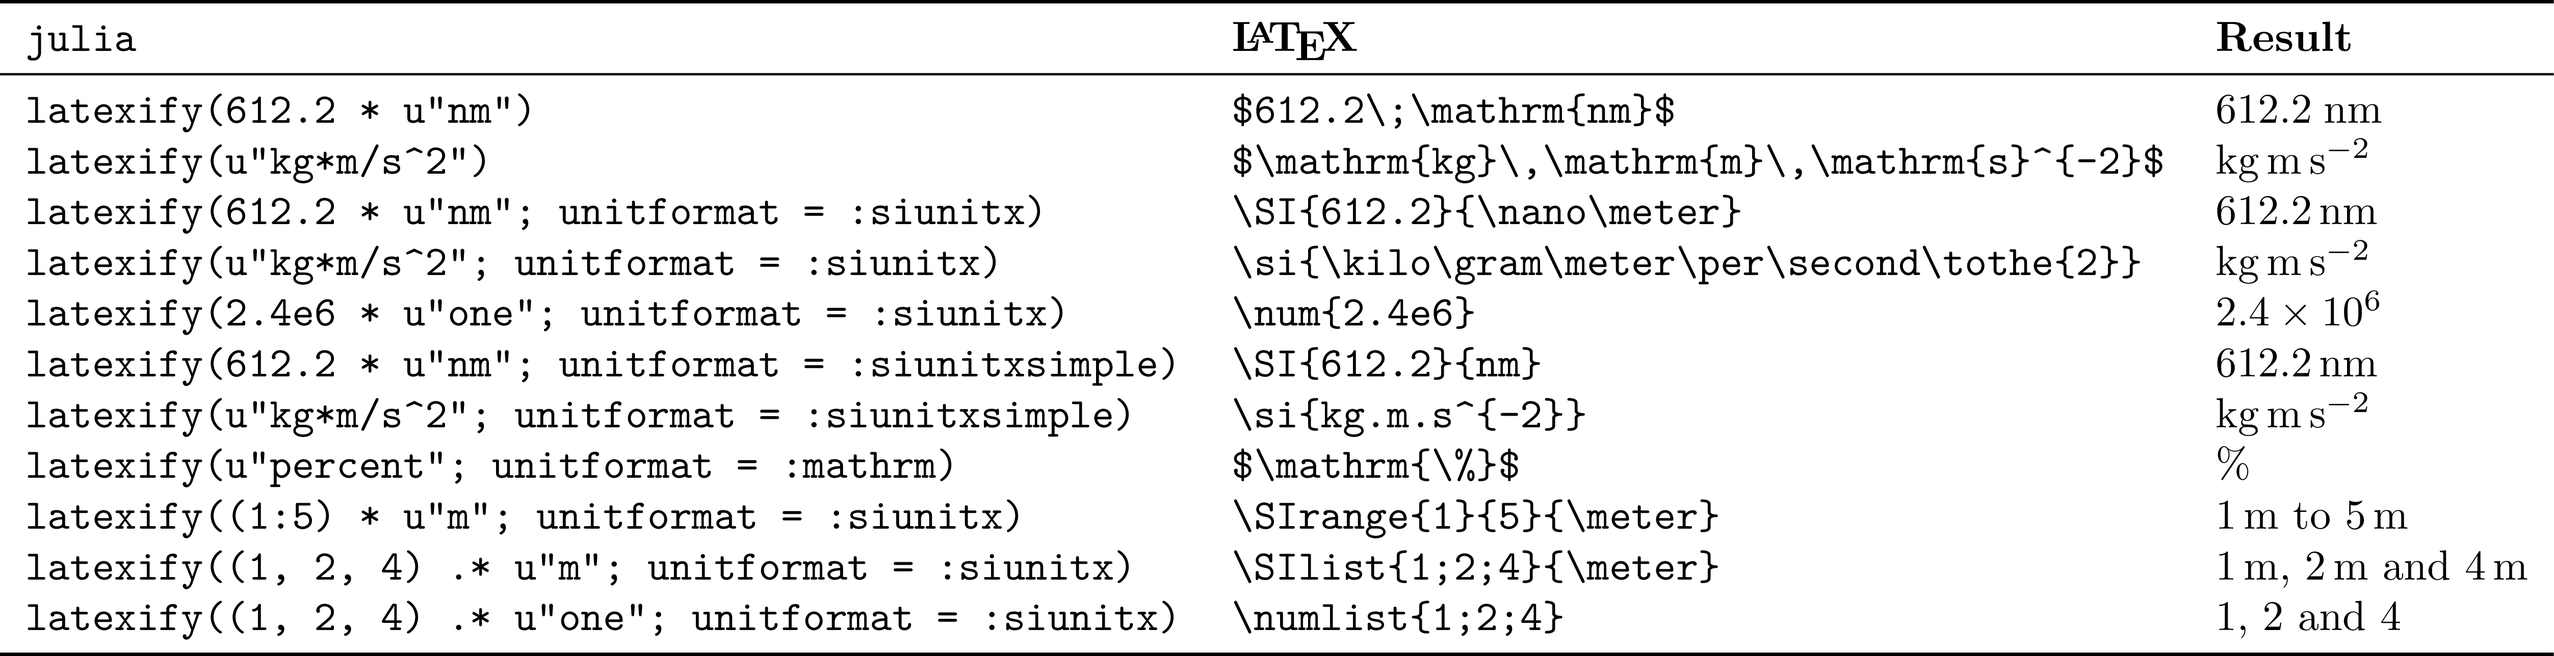
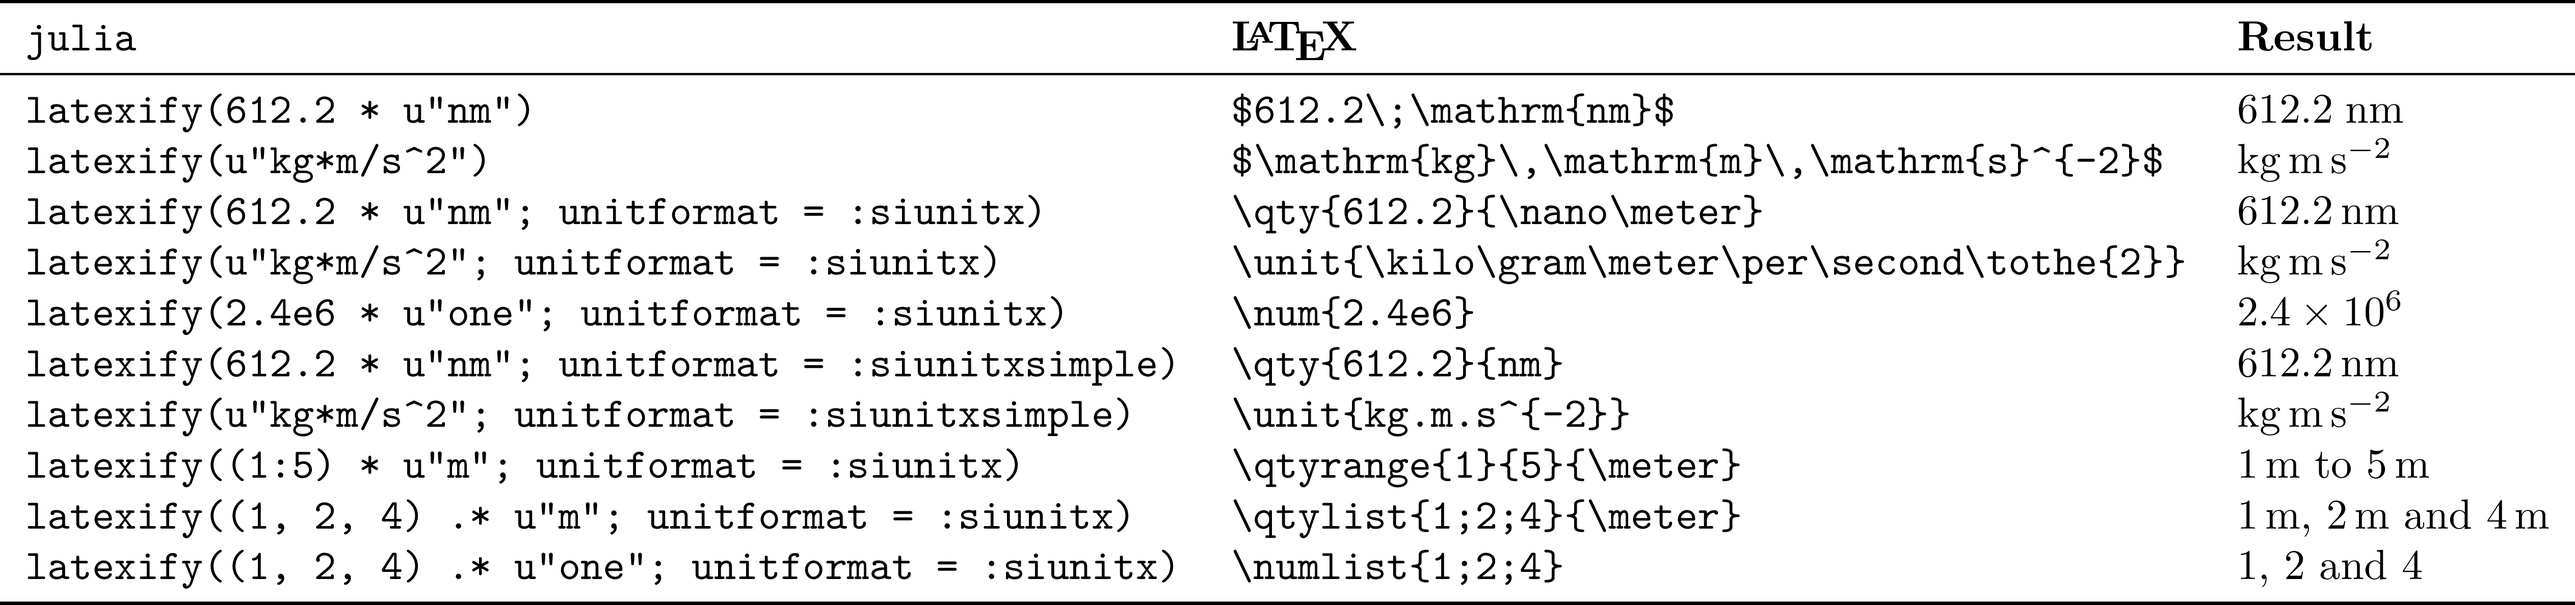
New siunitx syntax

Changed region(s): [[0.0, 0.0311, 1.0, 0.9655], [0.8719, 0.8409, 0.9964, 0.9655], [0.8719, 0.7475, 0.9653, 0.8098]]

diff --git a/docs/src/index.md b/docs/src/index.md
@@ -22,7 +22,7 @@ or more usefully:
 latexify(:(x = a*t^2 = $x))
 ```
 
-This of course also works for Units objects by themselves:
+This of course also works for `Units` objects by themselves:
 
 ```@example main
 latexify(u"kg*m")
@@ -34,6 +34,7 @@ Some more usage examples:
 
 
 ## Arrays
+
 Because Latexify is recursive, an array of unitful quantities is shown as
 expected:
 
@@ -50,12 +51,13 @@ latexify([1, 2, 3]u"cm")
 
 
 ## siunitx.sty
+
 If you are exporting your numbers to an actual LaTeX document, you will of
 course want to use the commands from `siunitx.sty` rather than the `\mathrm`
 style used by default. To this end, UnitfulLatexify introduces a keyword
 argument `unitformat` which is `:mathrm` per default, but can be set to
-`:siunitx` for `\SI{8}{\second\meter\per\kilo\gram}` style and `:siunitxsimple` for
-`\SI{8}{s.m/kg}`. Like other Latexify keywords, this can be set to be a default
+`:siunitx` for `\qty{8}{\second\meter\per\kilo\gram}` style and `:siunitxsimple` for
+`\qty{8}{s.m/kg}`. Like other Latexify keywords, this can be set to be a default
 by using `set_default(unitformat=:siunitx)`, or given with each latexification
 command:
 
@@ -65,6 +67,7 @@ print(ans) # hide
 ```
 
 ### One
+
 `siunitx` can also render unitless numbers nicely by putting them in `\num` commands. As the Unitful `NoUnits` is so fragile, `UnitfulLatexify` exports a unit `u"one"` which stays with a quantity until it's combined with another unit. You'll have to invoke this manually:
 
 ```@example main
@@ -73,6 +76,7 @@ print(ans) # hide
 ```
 
 ### Ranges and lists
+
 Another thing that `siunitx` does uniquely is lists and ranges of quantities.
 If you want the default behaviour of tuples and ranges to be printed as arrays,
 use `collect(x)` or `[x...]` to explicitly turn them into arrays first.
@@ -89,6 +93,7 @@ latexify((1:5)u"one"; unitformat=:siunitx),
 
 
 ## Plots labels
+
 UnitfulLatexify also interfaces with
 [UnitfulRecipes.jl](https://github.com/jw3126/UnitfulRecipes.jl) by way of
 implementing a two-argument `(label, unit)` recipe:
@@ -130,6 +135,7 @@ plot(
 ```
 
 ## Per-modes
+
 In mathrm-mode, one might prefer ``\mathrm{J}\,/\,\mathrm{kg}`` or
 ``\frac{\mathrm{J}}{\mathrm{kg}}`` over ``\mathrm{J}\,\mathrm{kg}^{-1}``. This can be achieved by
 supplying `permode=:slash` or `permode=:frac` respectively.
@@ -137,8 +143,15 @@ supplying `permode=:slash` or `permode=:frac` respectively.
 These will have no effect in `siunitx` mode, because the latex package handles
 this for you, and you can set it in your document.
 
+## New siunitx syntax
+
+Starting from `v1.6`, the new syntax from `siunitx v3` (`\qty, \unit` rather
+than `\SI, \si`) is used. Upgrade `siunitx` or downgrade `UnitfulLatexify` if
+this does not compile for you.
+
 ## A more complete list of defined units
-Below is a poorly scraped list of units defined in `siunitx` and what comes out
+
+Below is a poorly scraped list of units defined in `Unitful` and what comes out
 if you run it through `latexify`. Feel free to create an issue if there's a
 unit missing or being incorrectly rendered (and suggest a better ``\LaTeX``
 representation if you know one).

diff --git a/README.md b/README.md
@@ -25,13 +25,13 @@ julia> latexify(q)
 L"$612.2\;\mathrm{nm}$"
 
 julia> latexify(q,unitformat=:siunitx)
-L"\SI{612.2}{\nano\meter}"
+L"\qty{612.2}{\nano\meter}"
 
 julia> latexify(u,unitformat=:mathrm) # explicit default
 L"$\mathrm{kg}\,\mathrm{m}\,\mathrm{s}^{-2}$"
 
 julia> latexify(u,unitformat=:siunitx)
-L"\si{\kilo\gram\meter\per\second\tothe{2}}"
+L"\unit{\kilo\gram\meter\per\second\tothe{2}}"
 ```
 
 ## Results
